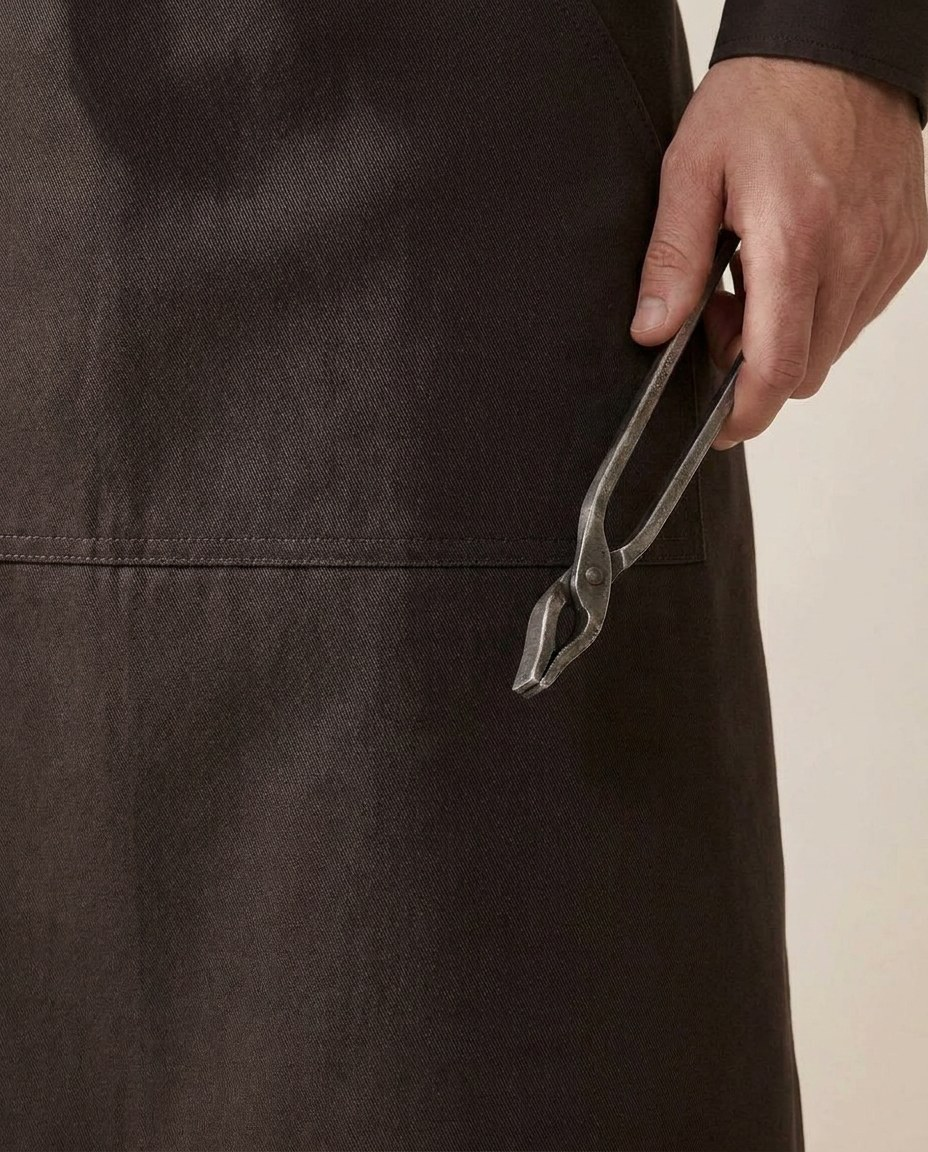
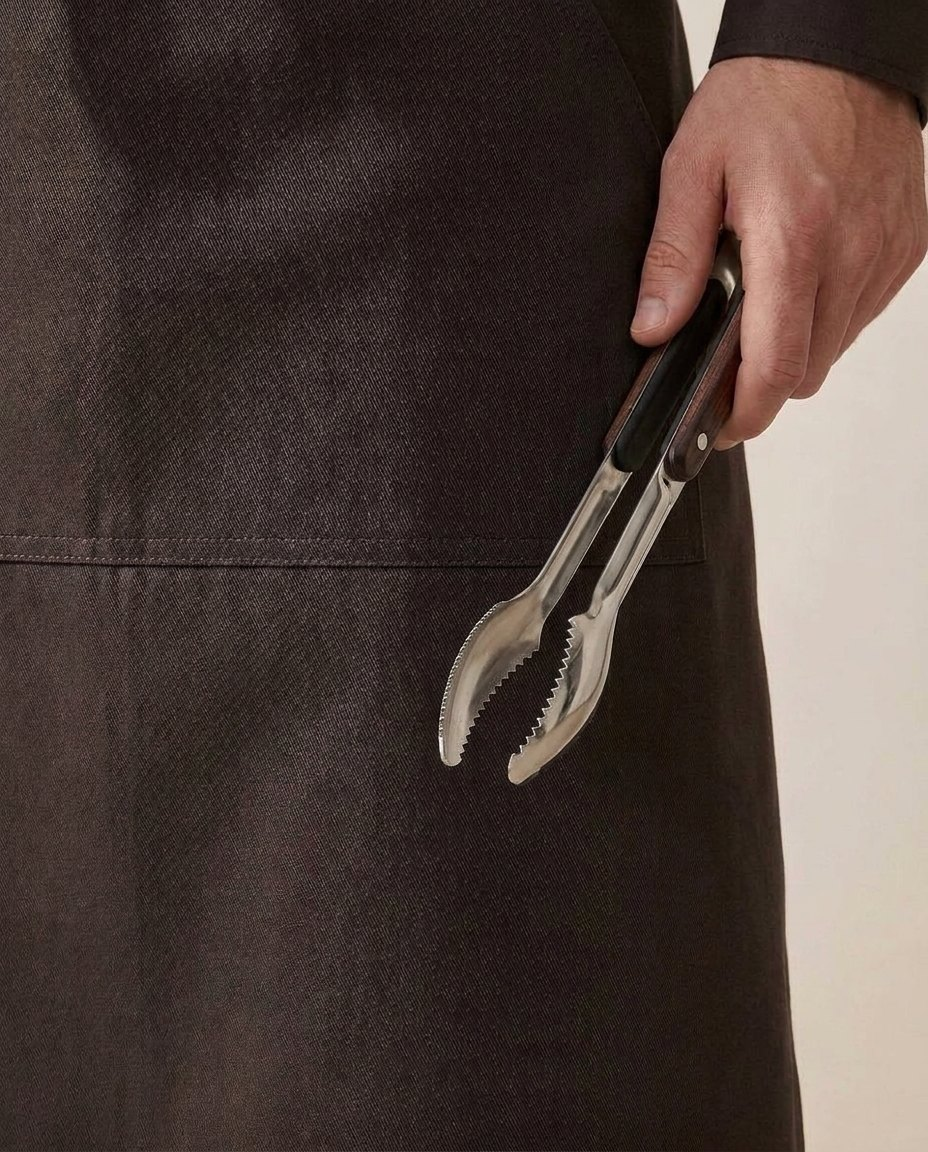
Update hookah master detail shot
Claude-Session: https://claude.ai/code/session_01SBaPG9zUcmaj8bkbN2NksY

Changed region(s): [[0.4688, 0.1875, 0.8125, 0.6875], [0.25, 0.4688, 0.3125, 0.5], [0.1562, 0.4688, 0.1875, 0.5]]

diff --git a/application.html b/application.html
@@ -544,7 +544,7 @@ const LOOKS = [
     lead: "Работает с углями. Плотный 100% хлопок без синтетики, которая плавится от искр, и второй слой ткани внизу фартука.",
     items: ["Рубашка, плотный хлопок, Уголь", "Нагрудный фартук до колена, хлопковый дрилл, кроссбэк", "Второй слой ткани в нижней трети", "Брюки прямые, закрытая кожаная обувь"],
     marks: [[54.5,29,"Патч на нагруднике"],[42,41.5,"Пояс Кьянти"],[50,57,"Второй защитный слой"]],
-    details: [["img_application/n_key.jpg","Защита","Второй слой плотного хлопка в нижней трети"],["img_application/patch.jpg","Патч","Монограмма на нагруднике"]]
+    details: [["img_application/n_key.jpg","Защита","Второй слой ткани в нижней трети и щипцы для углей"],["img_application/patch.jpg","Патч","Монограмма на нагруднике"]]
   },
   {
     id: "sala", img: "img_application/sala.jpg", role: "Администратор", it: "Responsabile di sala", zone: "Вход и зал",
